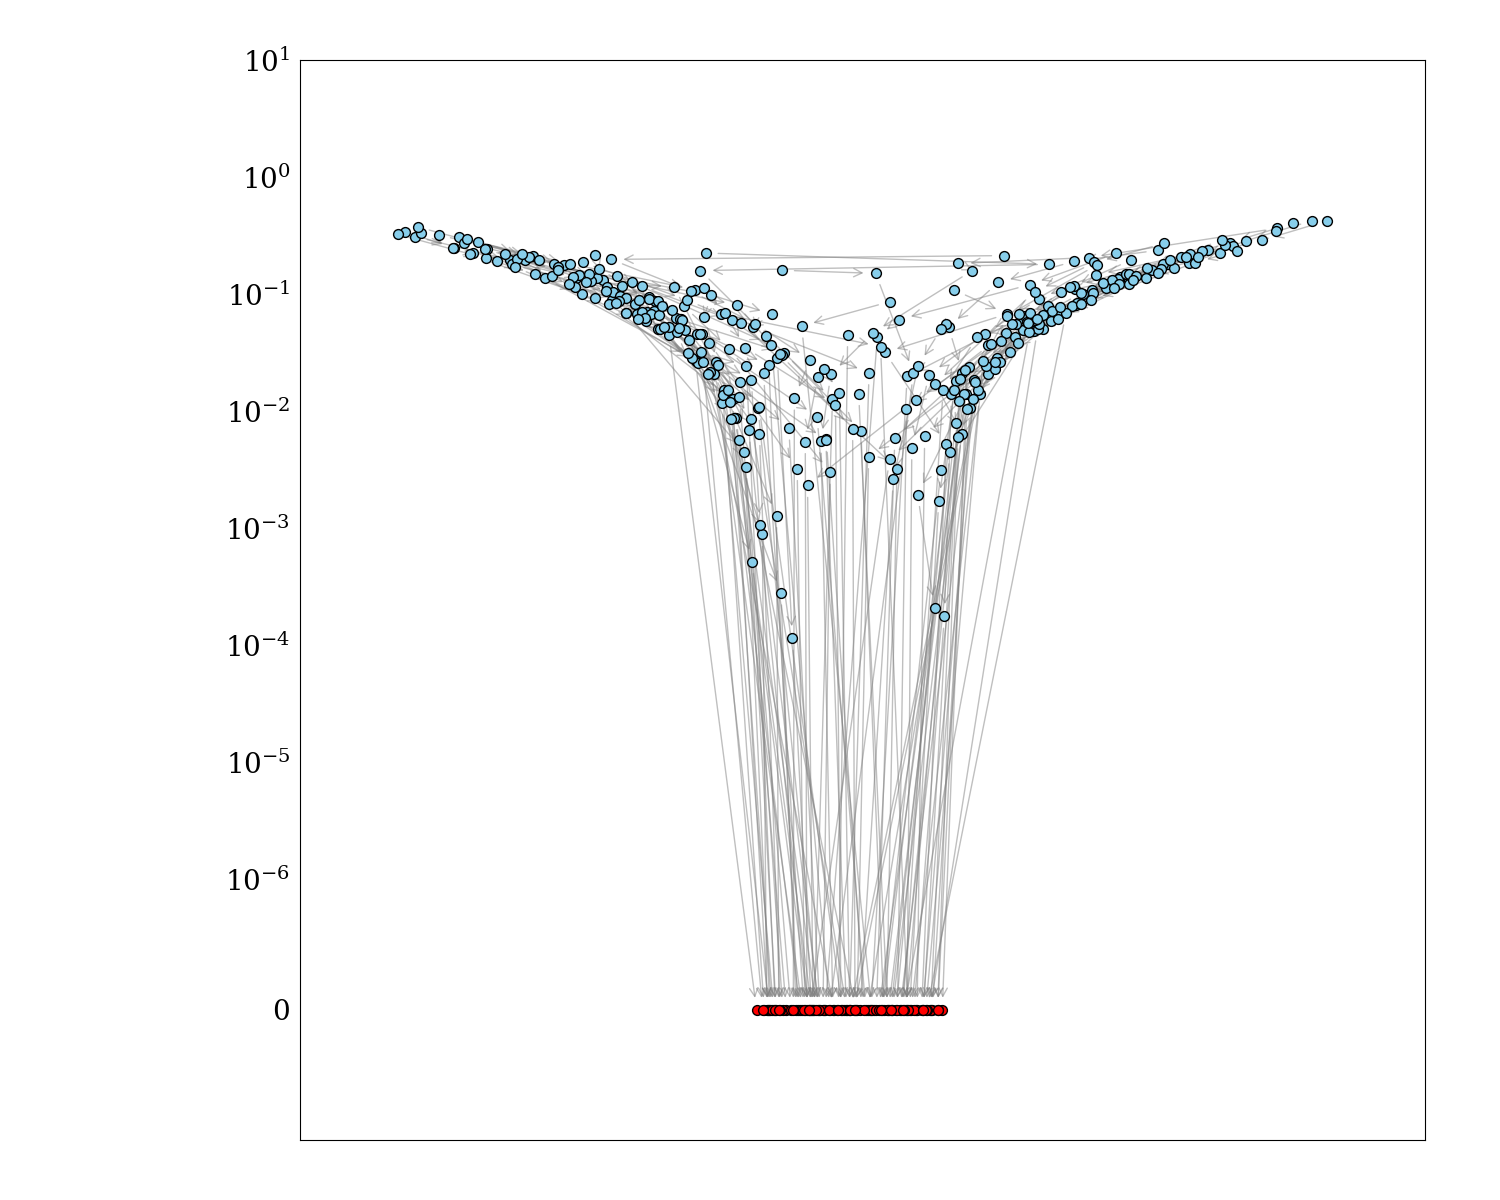
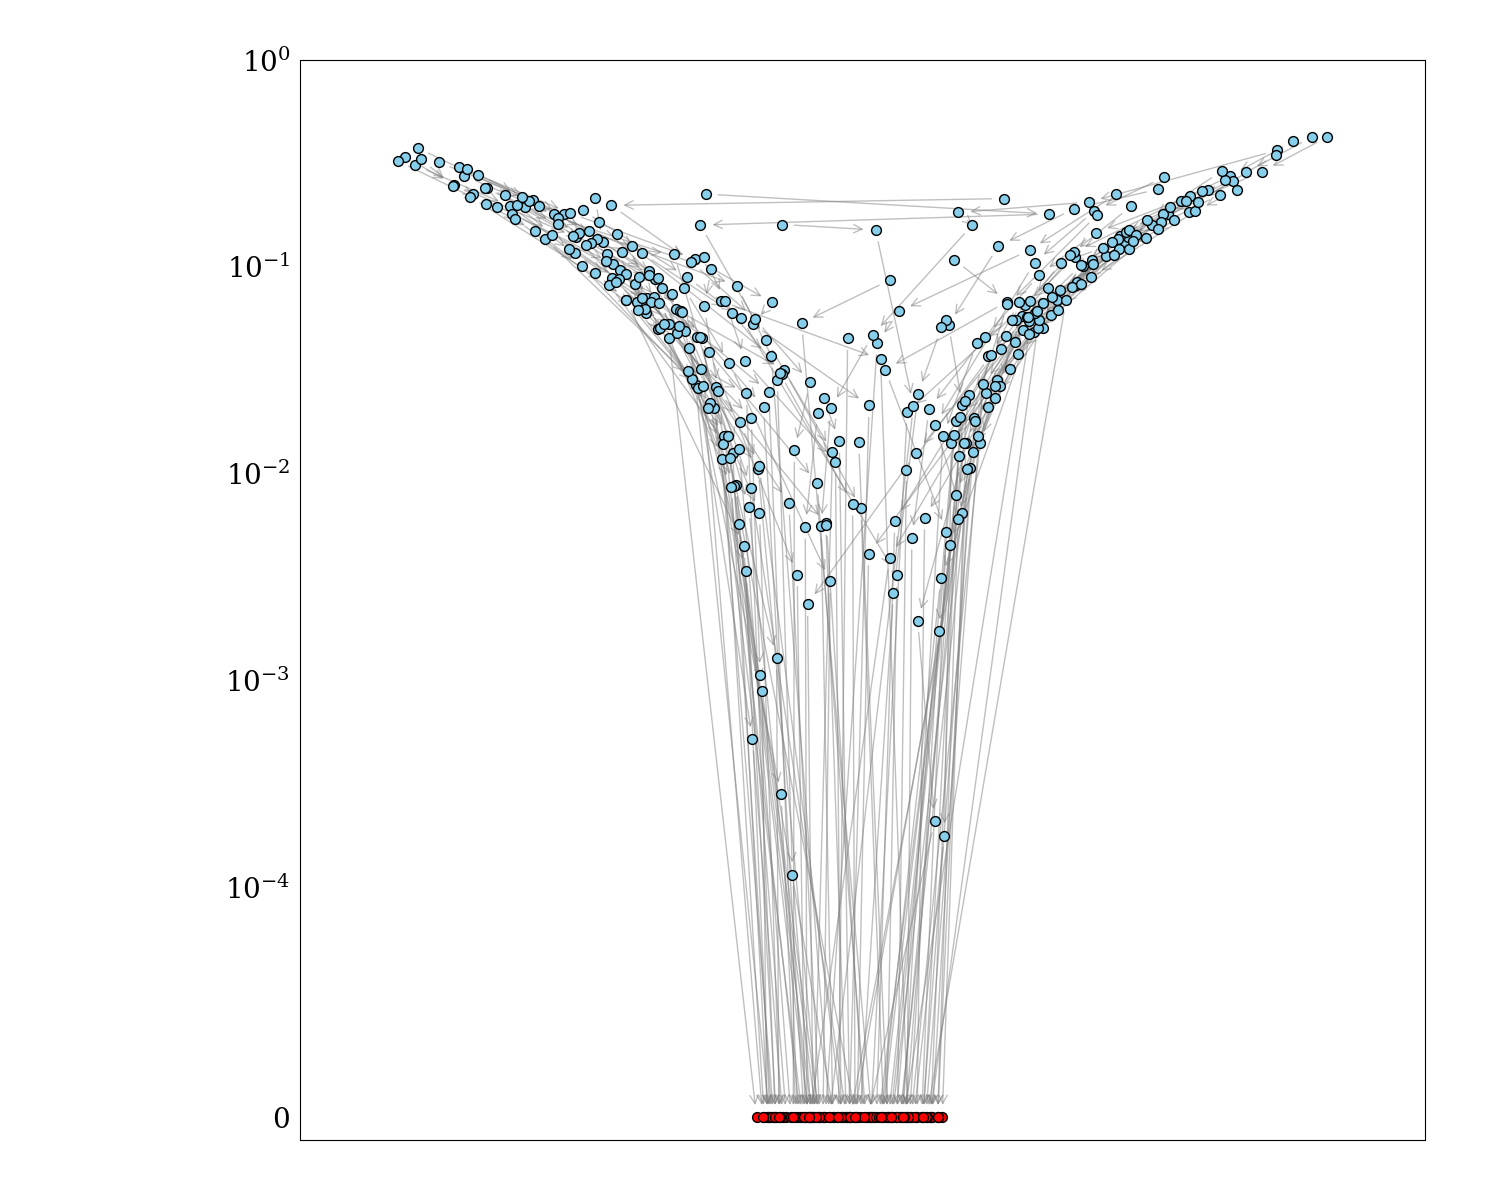
change

diff --git a/2D3D.py b/2D3D.py
@@ -1,0 +1,161 @@
+import numpy as np
+import pandas as pd
+import networkx as nx
+import matplotlib.pyplot as plt
+from mpl_toolkits.mplot3d import Axes3D  # noqa: F401 for 3D projection
+from collections import defaultdict
+import matplotlib.ticker as ticker
+from pathlib import Path
+
+# ----------------------------------------------------------------
+# Configurations
+# ----------------------------------------------------------------
+plt.rcParams["font.family"] = "DejaVu Serif"
+plt.rcParams["font.size"] = 18
+
+# Problem settings
+problem_name = 'RWMOP25'
+algo = 'data'
+base_dir = Path('data09-20')
+csv_path = base_dir / f"{problem_name}_{algo}.csv"
+assert csv_path.exists(), f"CSV file not found: {csv_path}"
+
+# ----------------------------------------------------------------
+# 1. Load data and compute CV
+# ----------------------------------------------------------------
+data = pd.read_csv(csv_path)
+X_cols = [c for c in data.columns if c.startswith('X_')]
+con_cols = [c for c in data.columns if c.startswith('Con_')]
+n_dim = len(X_cols)
+assert n_dim in (2, 3), f"Supports only 2D/3D problems, got {n_dim}D"
+
+# total constraint violation (clip negative to zero)
+data['CV'] = data[con_cols].clip(lower=0).sum(axis=1)
+# sort by ID and generation for graph edges order
+data_sorted = data.sort_values(['ID', 'Gen']).reset_index(drop=True)
+
+# ----------------------------------------------------------------
+# 2. Build directed graph
+# ----------------------------------------------------------------
+G = nx.DiGraph()
+for idx, row in data_sorted.iterrows():
+    G.add_node(idx,
+               Gen=row['Gen'],
+               ID=row['ID'],
+               X=row[X_cols].values,
+               CV=row['CV'])
+
+prev_row = None
+prev_idx = None
+
+for idx, row in data_sorted.iterrows():
+    if prev_row is not None and prev_row['ID'] == row['ID'] and row['Gen'] == prev_row['Gen'] + 1:
+        G.add_edge(prev_idx, idx)
+    prev_row = row
+    prev_idx = idx
+sink_nodes = [n for n in G.nodes() if G.out_degree(n) == 0]
+
+# 重複ノード群の特定
+vec2nodes = defaultdict(list)
+for n in G.nodes():
+    vec = tuple(G.nodes[n]['X'])
+    vec2nodes[vec].append(n)
+
+# 重複ノード統合処理
+for vec, node_list in vec2nodes.items():
+    if len(node_list) > 1:
+        # 最初のノードを代表ノードとする
+        representative = node_list[0]
+        duplicates = node_list[1:]
+
+        for dup in duplicates:
+            # dupノードへの入出エッジを代表ノードに付け替え
+            # 入ってくるエッジ( pred -> dup )を ( pred -> representative )へ
+            for pred in list(G.predecessors(dup)):
+                if pred != representative:  # 同一ノードへのループは避ける
+                    # エッジがまだ存在しなければ追加
+                    if not G.has_edge(pred, representative):
+                        G.add_edge(pred, representative)
+
+            # dupノードから出るエッジ(dup -> succ)を (representative -> succ)へ
+            for succ in list(G.successors(dup)):
+                if succ != representative:
+                    if not G.has_edge(representative, succ):
+                        G.add_edge(representative, succ)
+
+            # dupノード削除
+            G.remove_node(dup)
+
+# ----------------------------------------------------------------
+# 4. Determine positions from X coordinates
+# ----------------------------------------------------------------
+pos2d = {}
+pos3d = {} if n_dim == 3 else None
+for n, data_attr in G.nodes(data=True):
+    xvals = data_attr['X']
+    if n_dim == 2:
+        pos2d[n] = (xvals[0], xvals[1])
+    else:
+        pos3d[n] = (xvals[0], xvals[1], xvals[2])
+
+# ----------------------------------------------------------------
+# 5. Classify nodes by sink/middle and feasibility
+# ----------------------------------------------------------------
+sinks = [n for n in G.nodes() if G.out_degree(n) == 0]
+middle = [n for n in G.nodes() if n not in sinks]
+
+final_feasible = [n for n in sinks if G.nodes[n]['CV'] == 0]
+final_infeasible = [n for n in sinks if G.nodes[n]['CV'] > 0]
+mid_feasible = [n for n in middle if G.nodes[n]['CV'] == 0]
+mid_infeasible = [n for n in middle if G.nodes[n]['CV'] > 0]
+
+# color mapping
+color_map = {
+    'mid_infeasible': 'skyblue',
+    'mid_feasible': 'salmon',
+    'final_feasible': 'red',
+    'final_infeasible': 'blue'
+}
+
+# ----------------------------------------------------------------
+# 6. Plotting
+# ----------------------------------------------------------------
+if n_dim == 2:
+    fig, ax = plt.subplots(figsize=(10, 8))
+    # edges
+    nx.draw_networkx_edges(
+        G, pos2d, ax=ax, arrowstyle='-|>', arrowsize=12,
+        edge_color='gray', alpha=0.4
+    )
+    # nodes
+    for name, nodeset in zip(
+        ['mid_infeasible','mid_feasible','final_feasible','final_infeasible'],
+        [mid_infeasible, mid_feasible, final_feasible, final_infeasible]
+    ):
+        nx.draw_networkx_nodes(
+            G, pos2d, nodelist=nodeset,
+            node_color=color_map[name], node_edgecolor="black", node_size=10,
+        )
+
+    plt.show()
+else:
+    fig = plt.figure(figsize=(10, 8))
+    ax = fig.add_subplot(111, projection='3d')
+    # edges
+    for u, v in G.edges():
+        xs, ys, zs = zip(pos3d[u], pos3d[v])
+        ax.plot(xs, ys, zs, color='gray', alpha=0.4)
+    # nodes
+    for name, nodeset, size in [
+        ('mid_infeasible', mid_infeasible, 10),
+        ('mid_feasible', mid_feasible, 10),
+        ('final_feasible', final_feasible, 50),
+        ('final_infeasible', final_infeasible, 50),
+    ]:
+        coords = np.array([pos3d[n] for n in nodeset])
+        if coords.size:
+            ax.scatter(
+                coords[:,0], coords[:,1], coords[:,2],
+                s=size, c=color_map[name], edgecolors='k', label=name.replace('_',' ').title()
+            )
+    plt.show()

diff --git a/kamada1D.py b/kamada1D.py
@@ -8,10 +8,10 @@ import matplotlib.ticker as ticker
 
 plt.rcParams["font.family"] = "DejaVu Serif"
 plt.rcParams["font.size"] = 20
-
-problem_name = 'RWMOP1'
+problem_name = 'RWMOP3'
+name = 'RWMOP7'
 algo = 'data'
-if 'RWMOP0' in problem_name == 1:
+if problem_name != name:
     domain_df = pd.read_csv('domain_info.csv')
 
     # 指定した問題名の行を取得
@@ -24,13 +24,13 @@ if 'RWMOP0' in problem_name == 1:
 # =============================
 # 1. CSVファイルの読み込みと前処理
 # =============================
-data = pd.read_csv(f'data09-20-pre/{problem_name}_{algo}.csv')
+data = pd.read_csv(f'data09-20/{problem_name}_{algo}.csv')
 con_cols = [c for c in data.columns if c.startswith('Con_')]
 total = data[con_cols].apply(lambda row: np.sum(np.maximum(0, row)), axis=1)
 target_constraints = ['Con_1']
 sub = data[target_constraints].apply(lambda row: np.sum(np.maximum(0, row)), axis=1)
 
-data['CV'] = sub
+data['CV'] = total
 data_sorted = data.sort_values(by=['ID', 'Gen'])
 G = nx.DiGraph()
 X_cols = [c for c in data.columns if c.startswith('X_')]
@@ -90,7 +90,7 @@ X_all = np.array([G.nodes[n]['X'] for n in nodes])
 N = len(nodes)
 
 #正規化
-if 'RWMOP0' in problem_name == 1:
+if problem_name != name:
     X_all = (X_all - lower) / diff
 
 dist_matrix = pairwise_distances(X_all, metric='euclidean')
@@ -171,14 +171,14 @@ nx.draw_networkx_nodes(
 )
 
 ax = plt.gca()
-ax.set_yscale('symlog', linthresh=1e-6)
+ax.set_yscale('symlog', linthresh=1e-5)
 # 「指数表記」で軸を表示したい場合は LogFormatterSciNotation などを使う
 log_formatter = ticker.LogFormatterSciNotation(base=10)
 ax.yaxis.set_major_formatter(log_formatter)
 ax.tick_params(axis='y', which='both', labelleft=True)
 
 ax.axis('on')
-plt.ylim(bottom=-1e-6)
+plt.ylim(bottom=-1e-5)
 plt.ylim(top=1e1)
 plt.subplots_adjust(left=0.2, right=0.95, top=0.95, bottom=0.05)
 

diff --git a/MDS.py b/MDS.py
@@ -10,8 +10,8 @@ from sklearn.manifold import MDS
 plt.rcParams["font.family"] = "DejaVu Serif"
 plt.rcParams["font.size"] = 20
 
-problem_name = 'RWMOP01_10Da05'
-name = 'RWMOP01_10Da05'
+problem_name = 'RWMOP'
+name = 'RWMOP'
 algo = 'data'
 if problem_name != name:
     domain_df = pd.read_csv('domain_info.csv')
@@ -24,8 +24,8 @@ if problem_name != name:
 # =============================
 # 1. CSVファイルの読み込みと前処理
 # =============================
-#data = pd.read_csv(f'data09-20-pre/{problem_name}_{algo}.csv')
-data = pd.read_csv(f'data09-20/{problem_name}_{algo}.csv')
+data = pd.read_csv(f'data09-20-pre/{problem_name}_{algo}.csv')
+#data = pd.read_csv(f'data09-20/{problem_name}_{algo}.csv')
 con_cols = [c for c in data.columns if c.startswith('Con_')]
 total = data[con_cols].apply(lambda row: np.sum(np.maximum(0, row)), axis=1)
 target_constraints = ['Con_1']
@@ -174,15 +174,15 @@ nx.draw_networkx_nodes(
 )
 
 ax = plt.gca()
-ax.set_yscale('symlog', linthresh=1e-1)
+ax.set_yscale('symlog', linthresh=1e-5)
 # 「指数表記」で軸を表示したい場合は LogFormatterSciNotation などを使う
 log_formatter = ticker.LogFormatterSciNotation(base=10)
 ax.yaxis.set_major_formatter(log_formatter)
 
 ax.tick_params(axis='y', which='both', labelleft=True)
 ax.axis('on')
-plt.ylim(bottom=-1e-1)
-plt.ylim(top=1e1)
+plt.ylim(bottom=-1e-5)
+plt.ylim(top=1e5)
 plt.subplots_adjust(left=0.2, right=0.95, top=0.95, bottom=0.05)
 
 plt.show()
